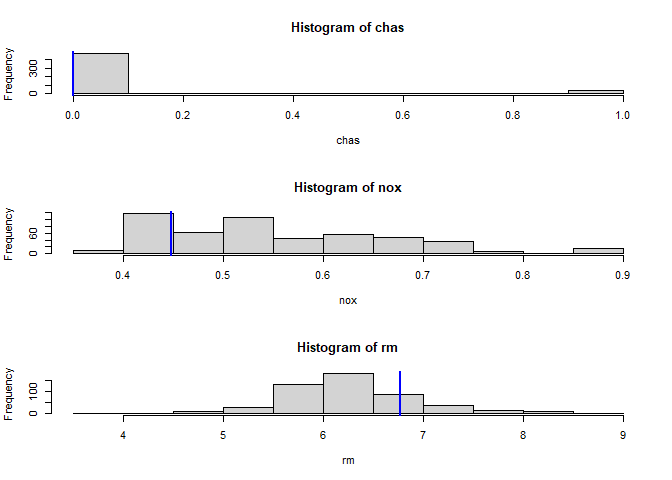
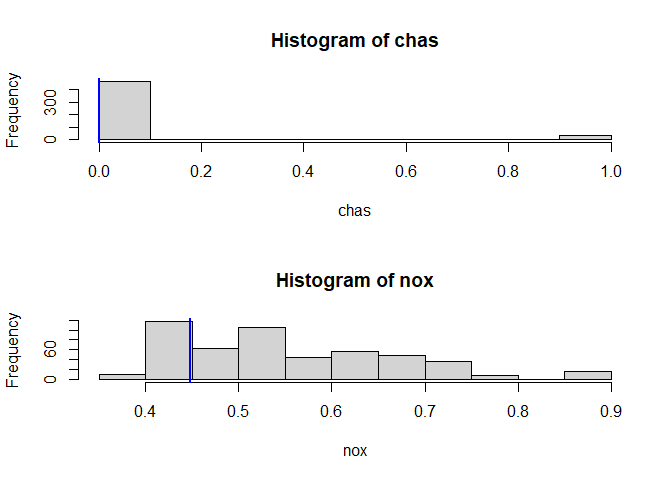
02_08 excercise

diff --git a/chapters/02-chapter/02-execises.md b/chapters/02-chapter/02-execises.md
@@ -630,9 +630,9 @@ VarsToPlot <-
   names(Boston) |>
   setdiff("crim")
 
-par(mfrow=c(3,1))
+par(mfrow=c(2,1))
 
-for(variable in names(Boston)){
+for(variable in VarsToPlot){
   
   hist(Boston[[variable]],
        main = paste("Histogram of" , variable), xlab = variable)
@@ -650,6 +650,8 @@ for(variable in names(Boston)){
 ![](02-execises_files/figure-gfm/unnamed-chunk-30-4.png)
 
 ![](02-execises_files/figure-gfm/unnamed-chunk-30-5.png)
+
+![](02-execises_files/figure-gfm/unnamed-chunk-30-6.png)
 
 - **In this data set, how many of the census tracts average more than
   seven rooms per dwelling? More than eight rooms per dwelling? Comment
